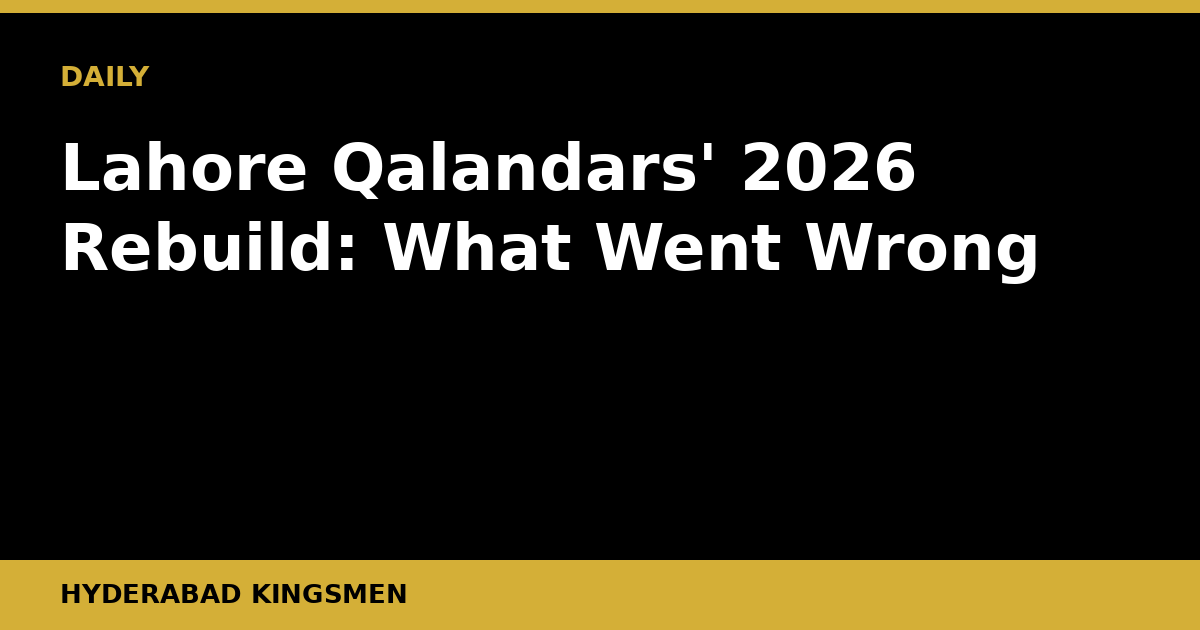
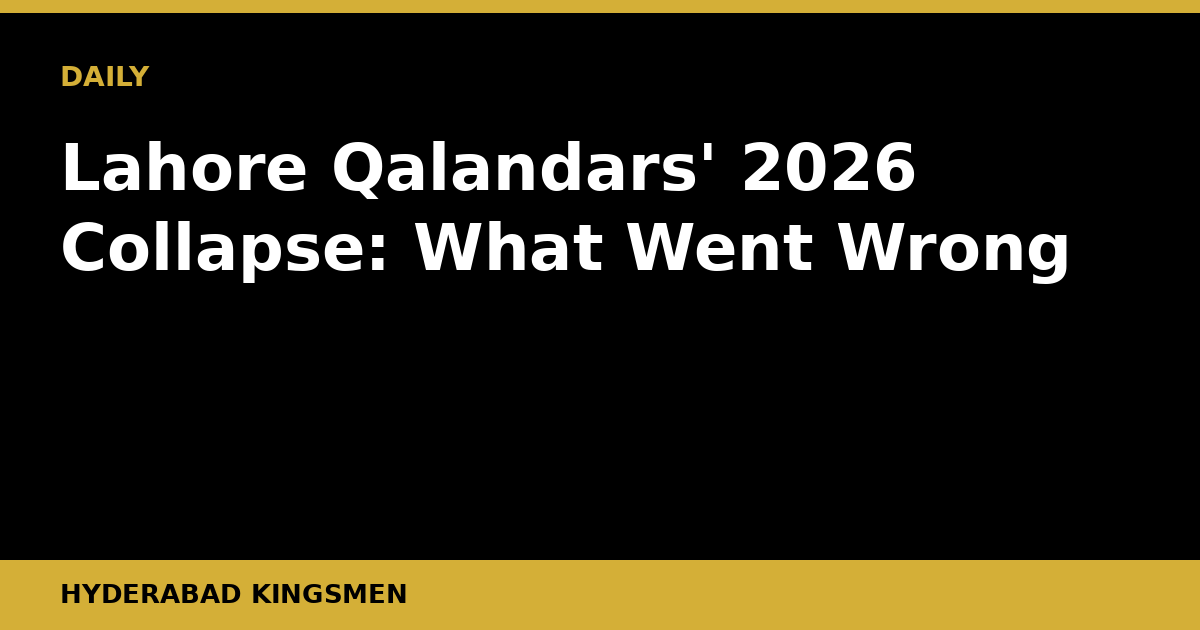
Daily post 2026-10-26

Changed region(s): [[0.0617, 0.3317, 0.8942, 0.4524]]

diff --git a/content/posts/lahore-qalandars-2026-rebuild-what-went-wrong.md b/content/posts/lahore-qalandars-2026-rebuild-what-went-wrong.md
@@ -1,49 +1,51 @@
 ---
-title: "Lahore Qalandars' 2026 Rebuild: What Went Wrong"
+title: "Lahore Qalandars' 2026 Collapse: What Went Wrong"
 slug: "lahore-qalandars-2026-rebuild-what-went-wrong"
-date: "2026-09-20T05:35:35+05:00"
+date: "2026-10-26T05:40:43+05:00"
 draft: false
-description: "The Lahore Qalandars endured their worst PSL campaign in years in 2026. Here is why the rebuild failed and what the franchise must fix."
+description: "Lahore Qalandars endured one of their worst PSL campaigns in recent memory in 2026. Here is why the franchise that once set the gold standard has lost its way."
 banner: "/banners/lahore-qalandars-2026-rebuild-what-went-wrong.png"
 kicker: "ANALYSIS"
 author: "Hyderabad Kingsmen"
 translationKey: "lahore-qalandars-2026-rebuild-what-went-wrong"
-tags: ["psl", "lahore-qalandars", "pakistan-cricket", "psl-2026", "franchise-cricket", "t20-cricket"]
+tags: ["psl", "lahore-qalandars", "pakistan-cricket", "psl-2026", "franchise-cricket", "t20-analysis", "player-development"]
 categories: ["Analysis"]
 ---
 
-The Lahore Qalandars spent the better part of a decade building one of the most admired franchise structures in Asian T20 cricket. Their 2026 PSL campaign threatened to dismantle that reputation in a single season.
+Lahore Qalandars were once the template every PSL franchise wanted to copy. In 2026, they became a cautionary tale. Their campaign was not just disappointing, it was a structural failure, and the questions it raises matter well beyond Liberty Roundabout.
 
-## The Story Beneath the Results
+## The Gold Standard, Tarnished
 
-Finishing near the foot of the table is damaging enough for any franchise. For the Qalandars, a club that won the PSL title in 2022 and consistently punched above its weight through a celebrated development pathway, the 2026 slump carries a sharper sting. This was not just a bad run of form. It looked, at its worst moments, like a franchise caught between two identities: the self-sufficient, homegrown model that made them famous, and a reactive scramble to replace departing match-winners with expensive imports who never quite settled.
+For much of the last half-decade, Lahore ran the most coherent cricketing operation in the PSL. Their academy pipeline was envied across South Asia. Their overseas recruitment was sharp. Their two title wins were built on identity, not luck. So when a franchise of that pedigree posts one of its worst-ever campaigns, the story is bigger than a bad season. It is a signal that something fundamental has shifted.
 
-The Qalandars built their brand on patience. They drafted young Pakistani talent early, put them through structured academies, and reaped the rewards when players like Shaheen Shah Afridi became genuine global stars. That pipeline still exists, but the 2026 season exposed a dangerous gap between the pipeline's output and the immediate demands of a competitive PSL field that has grown considerably stronger across all eight franchises.
+The 2026 edition exposed a franchise caught between two eras. The core of the side that lifted those trophies has aged or moved on, and the replacements, both local and imported, have not hit their expected levels. That is not just a selection problem. It is a planning problem.
 
-## Where the Wheels Came Off
+## The Real Issue: A Pipeline Running Dry
 
-Three problems compounded one another throughout the season.
+For all the credit Lahore's academy system earned, its output into the senior PSL squad has slowed. The conveyor belt that delivered ready-made cricketers to the T20 environment appears to have stalled at a critical juncture. Younger players who were supposed to step up into frontline roles have looked underprepared for the pace and pressure of the PSL.
 
-First, the overseas slot decisions looked rushed. The Qalandars have historically been shrewd in identifying value overseas picks, players who complement rather than crowd out Pakistani talent. In 2026, the balance felt off. The foreign recruits brought reputation but not the specific impact the middle overs and death bowling required. When those players underperformed, the local core was left carrying an unequal burden.
+Overseas recruitment compounded the problem. Lahore historically made canny picks, targeting proven T20 performers who could adapt quickly to conditions. In 2026, the balance was off. Some overseas slots were filled by players who arrived either underdone or simply unsuited to the specific demands of the tournament.
 
-Second, the batting order had a structural fragility that opponents quickly identified. The top three were asked to do too much, and when even one fell cheaply the innings lost shape fast. A franchise that once prided itself on having match-winning depth looked thin once you moved past the top four.
+The result was a middle order that never settled and a bowling attack that lacked a reliable wicket-taking option in the powerplay. In T20 cricket, those are not small gaps. They are match-defining deficiencies, and Lahore had both simultaneously.
 
-Third, and perhaps most telling, the bowling attack that was once the envy of the PSL looked mortal. Pace has always been the Qalandars' currency. In 2026, injuries and international call-ups drained that resource at the worst possible moments, and the backup options did not plug the gaps convincingly.
+## Leadership and Tactical Drift
 
-## What This Means Going Forward
+Captaincy and in-match decision-making also came under scrutiny during the campaign. A side that was once praised for its calmness under pressure looked uncertain at crunch moments. Field placements were questioned, bowling changes came too late or too early, and the batting order was shuffled with an inconsistency that suggested the team management itself was searching for answers.
 
-The Qalandars are not a franchise in crisis in the structural sense. Their academy continues to produce prospects, their management has navigated difficult moments before, and the ownership group has shown a willingness to invest when direction is clear. But 2026 should serve as a genuine warning.
+When a franchise loses its tactical identity, it often means the coaching and support structure has not evolved with the opposition. The rest of the PSL has studied Lahore intensely for years. In 2026, it felt as though Lahore had not kept pace with how the rest of the tournament had studied them.
 
-The PSL has changed. The Hyderabad Kingsmen, Quetta Gladiators, and Islamabad United have all refined their recruitment models in recent cycles. Standing still, or worse, overcorrecting after a poor draft with panic buys, is a real danger for any franchise that lets sentiment cloud analysis.
+## What It Means for Lahore Going Forward
 
-The Qalandars need a hard internal review of whether the homegrown philosophy, still correct in principle, is being executed with the same rigour at the senior squad assembly stage as it is at the academy level. Developing talent and then deploying it optimally in high-pressure PSL games are two different skills. The 2026 campaign suggested those skills may have drifted out of alignment.
+The Qalandars face some uncomfortable off-season conversations. The most pressing is honest roster evaluation. Which players from the 2026 squad genuinely deserve another contract, and which were carried by reputation or past service? Sentiment cannot drive those decisions, not if Lahore wants a credible 2027 rebuild.
 
-For Shaheen and any other Qalandars players with international commitments, the franchise must also get better at building squads that can absorb their absence. Relying on a single match-winner's fitness and availability is a structural vulnerability, not a personnel problem.
+The academy model also needs re-examination. It may not be broken entirely, but its output clearly needs recalibrating for the modern PSL. Producing technically correct cricketers is one thing. Producing cricketers who can handle the specific chaos of a T20 knockout environment is another, and that second part seems to have been underweighted in recent cohorts.
+
+Overseas recruitment will require a cleaner brief. There needs to be clarity on what roles need filling before the draft, not a reactive process of trying to fit available names into existing gaps.
 
 ## What to Watch Next
 
-The draft will be the first real signal of how seriously the Qalandars have taken this reckoning. Watch whether they double down on their traditional philosophy with smarter overseas targeting, or whether they chase big names to appease a frustrated fanbase. The former would suggest the right lessons have been drawn. The latter would suggest the franchise is reacting to noise rather than data.
+The most revealing indicator of how seriously Lahore takes this reset will be whether they make significant structural changes to their coaching and selection apparatus, or whether they essentially run the same operation with a few new names bolted on. The former suggests genuine self-awareness. The latter suggests a franchise that has convinced itself the 2026 campaign was an aberration rather than a warning.
 
-Also watch how the PCB's scheduling for the next PSL window affects availability of national team players. If Pakistan's international calendar eases slightly, franchises like the Qalandars who lean heavily on home-grown Test and ODI regulars will benefit more than most.
+Watch also for how the PCB responds if the Qalandars' academy numbers continue to dip. Lahore's development infrastructure has been cited as a model in national conversations about producing domestic talent. If that model is underperforming, it has implications far beyond the PSL points table.
 
-One bad season does not erase what Lahore built. But it does demand a sharper answer than the one they gave in 2026.
+A franchise that raised the bar for what a PSL team could look like now has to clear that bar itself. That is the uncomfortable position Lahore Qalandars find themselves in heading into the off-season.
